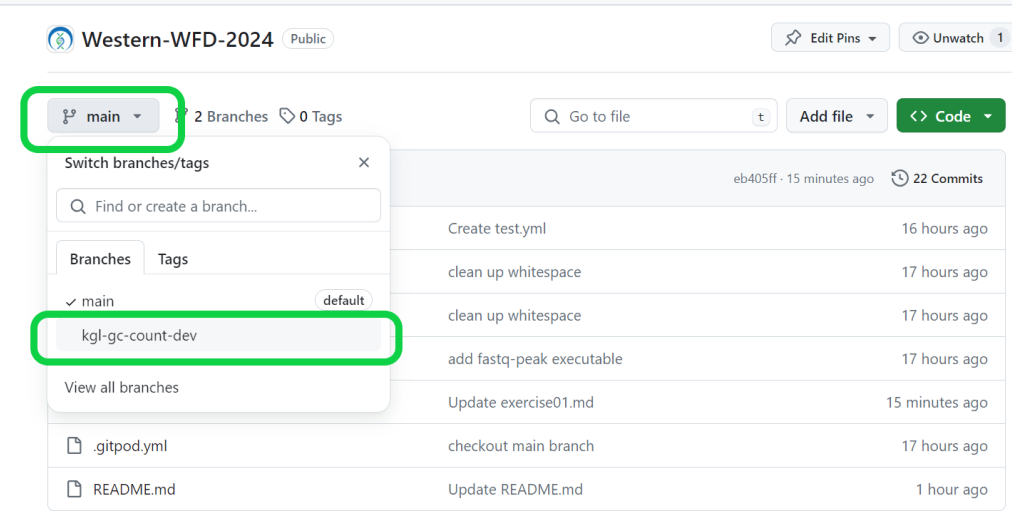
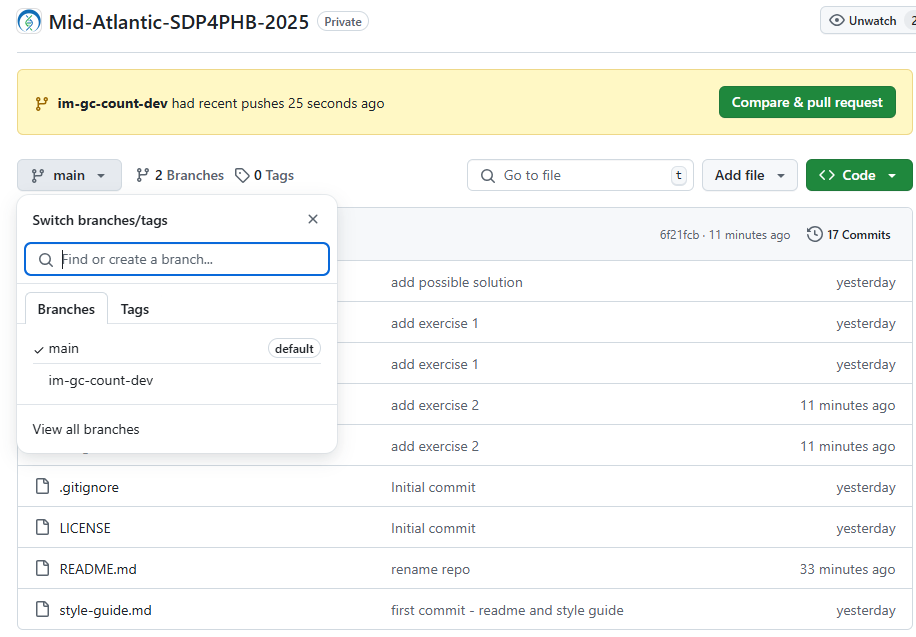
add exercise 2

diff --git a/exercises/exercise02.md b/exercises/exercise02.md
@@ -13,13 +13,14 @@
 </p>
 
 2. Currently, you should be working within the main branch of this repo, but this is a protected branch to which we cannot commit direcly. Instead, a dev branch must be created and PR issued to push changes to main. To do this:
-    - Use VSCode to create a dev branch by clicking "main" in the bottom left corner, naming your branch in the text box that appears (e.g. `kgl-gc-count-dev`) and selecting "Create new branch".
+    - Use VSCode to create a dev branch by clicking "main" in the bottom left corner, naming your branch in the text box that appears (e.g. `im-gc-count-dev`) and selecting "Create new branch".
 
 <p align="center">
   <img src="../images/e2-2a.png" width="800" class="center">
 </p>
 
-    - Click the push icon in the bottom-left corner of your VSCode interface to publish this branch to the remote repository.
+  - Click the push icon in the bottom-left corner of your VSCode interface to publish this branch to the remote repository.
+
 <p align="center">
   <img src="../images/e2-2b.png" width="800" class="center">
 </p>
